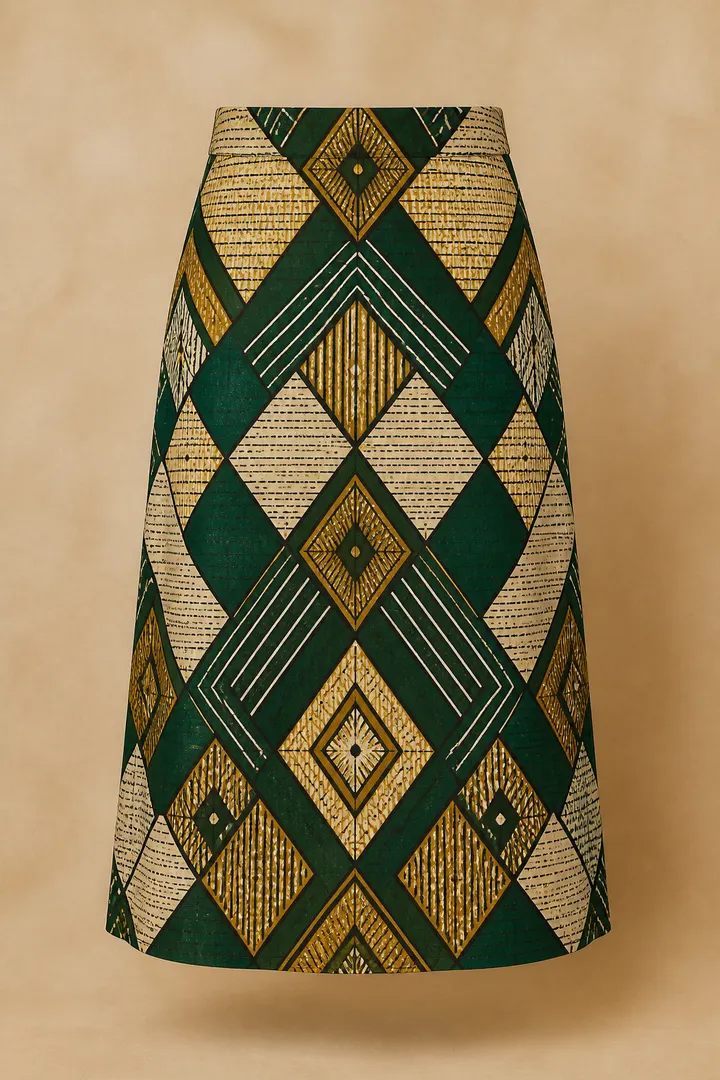
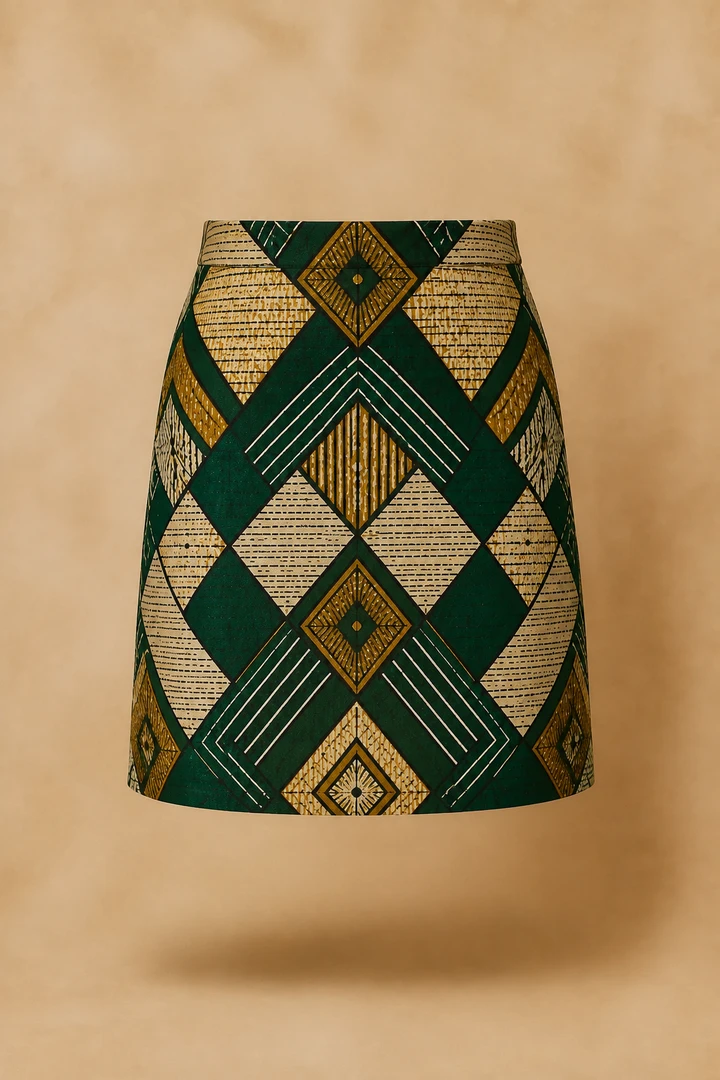
feat: simplify step one garment presentation

diff --git a/test_step1_step3_catalogue_loading_ui.tsx b/test_step1_step3_catalogue_loading_ui.tsx
@@ -72,16 +72,6 @@ const renderStep1 = (coverage: ReturnType<typeof resolveStep1CatalogueCoverage>)
       selectedGarmentTypes: coverage.selectedGarments as never,
       selectedDemographics: coverage.selectedDemographics as never,
       normalizedCustomDetailCatalog: catalog,
-      catalogueCoverageMessage:
-        (coverage.status === "no_match" ||
-          coverage.status === "empty_catalogue") &&
-        coverage.customerHeadline &&
-        coverage.customerDetail
-          ? {
-              headline: coverage.customerHeadline,
-              detail: coverage.customerDetail,
-            }
-          : null,
       onGarmentTypesChange: () => undefined,
       onDemographicsChange: () => undefined,
       onConstructionDefaultsChange: () => undefined,
@@ -171,7 +161,7 @@ const renderStep3 = async ({
   assert.equal(step3.continueDisabled, true);
 }
 
-// 2. loading=false + styles=[] => empty catalogue + Upload Your Own Design
+// 2. loading=false + styles=[] => Step 1 remains garment-only; Step 3 describes catalogue state
 {
   const coverage = resolveStep1CatalogueCoverage({
     garmentTypeSelection: selection(["shirt", "trouser"], ["male"]),
@@ -180,8 +170,8 @@ const renderStep3 = async ({
   });
   assert.equal(coverage.status, "empty_catalogue");
   const step1 = renderStep1(coverage);
-  assert.match(step1, /No catalogue designs are available right now/);
-  assert.match(step1, /Upload Your Own Design/);
+  assert.equal(step1.includes("No catalogue designs are available right now"), false);
+  assert.equal(step1.includes("Upload Your Own Design"), false);
   const step3 = await renderStep3({
     styles: [],
     garmentTypeSelection: selection(["shirt", "trouser"], ["male"]),
@@ -203,7 +193,7 @@ const renderStep3 = async ({
   assert.equal(step1.includes("No catalogue design matches"), false);
 }
 
-// 4. no_match => upload-later warning
+// 4. no_match => Step 1 remains garment-only; Step 3 shows all published styles
 {
   const coverage = resolveStep1CatalogueCoverage({
     garmentTypeSelection: selection(["shirt", "trouser"], ["male"]),
@@ -212,9 +202,9 @@ const renderStep3 = async ({
   });
   assert.equal(coverage.status, "no_match");
   const step1 = renderStep1(coverage);
-  assert.match(step1, /No direct catalogue composition match found/);
-  assert.match(step1, /browse and use every published design/i);
-  assert.match(step1, /upload your own design/i);
+  assert.equal(step1.includes("No direct catalogue composition match found"), false);
+  assert.equal(step1.includes("browse and use every published design"), false);
+  assert.equal(step1.includes("Upload Your Own Design"), false);
   assert.equal(step1.includes("No catalogue design matches this selection"), false);
   const step3 = await renderStep3({
     styles: [incompatibleStyle],
@@ -341,9 +331,9 @@ const renderStep3 = async ({
       "base:trouser:1": compatibleStyle.id,
     },
   });
-  assert.match(explicitV2.text, /2 of 2 garments have a design/);
-  assert.match(explicitV2.text, /Used for 2/);
-  assert.match(explicitV2.text, /Use This Design/);
+  assert.match(explicitV2.text, /2 of 2 garments assigned/);
+  assert.match(explicitV2.text, /Applied to Shirt, Trouser/);
+  assert.match(explicitV2.text, /Use Again/);
   assert.equal(explicitV2.continueDisabled, false);
   assert.equal(explicitV2.stageComplete, true);
   assert.equal(explicitV2.continueDocked, true);

diff --git a/test_garment_type_step.tsx b/test_garment_type_step.tsx
@@ -42,16 +42,11 @@ const renderStep = ({
   selectedDemographics = [],
   selectedFabricQuantity,
   normalizedCustomDetailCatalog = catalog,
-  catalogueCoverageMessage = null,
 }: {
   selectedGarmentTypes?: readonly FabricGarmentType[];
   selectedDemographics?: readonly CustomDetailDemographic[];
   selectedFabricQuantity?: number;
   normalizedCustomDetailCatalog?: readonly CustomDetailOption[];
-  catalogueCoverageMessage?: {
-    headline: string;
-    detail: string;
-  } | null;
 } = {}) =>
   renderToStaticMarkup(
     createElement(GarmentTypeStep, {
@@ -59,7 +54,6 @@ const renderStep = ({
       selectedDemographics,
       selectedFabricQuantity,
       normalizedCustomDetailCatalog,
-      catalogueCoverageMessage,
       onGarmentTypesChange: () => undefined,
       onDemographicsChange: () => undefined,
       onConstructionDefaultsChange: () => undefined,
@@ -370,20 +364,17 @@ assert.ok(
   ),
 );
 
-const coverageWarningMarkup = renderStep({
+const skirtOnlyMarkup = renderStep({
   selectedGarmentTypes: ["skirt"],
   selectedDemographics: ["female"],
-  catalogueCoverageMessage: {
-    headline: "No direct catalogue composition match found",
-    detail:
-      "You can still continue to Step 3 to browse and use every published design. Reference-composition differences are advisory and will not block selection, or you can Upload Your Own Design.",
-  },
 });
-assert.ok(
-  coverageWarningMarkup.includes("No direct catalogue composition match found"),
+assert.equal(
+  skirtOnlyMarkup.includes("No direct catalogue composition match found"),
+  false,
+  "Step 1 must focus on physical garment selection, without catalogue-composition messaging",
 );
-assert.ok(coverageWarningMarkup.includes("browse and use every published design"));
-assert.ok(coverageWarningMarkup.includes("Upload Your Own Design"));
+assert.ok(skirtOnlyMarkup.includes("Standard Skirt"));
+assert.ok(skirtOnlyMarkup.includes("Uses 1/2 fabric capacity unit."));
 
 const allEightStep1Markup = renderStep({
   selectedGarmentTypes: [...STEP_1_SELECTABLE_GARMENT_TYPES],

diff --git a/src/components/DesignStudioView.tsx b/src/components/DesignStudioView.tsx
@@ -49,7 +49,6 @@ import { GarmentTypeStep } from "./GarmentTypeStep";
 import { DormantFutureFabricStep } from "./DormantFutureFabricStep";
 import { DormantFutureDesignStyleStep } from "./DormantFutureDesignStyleStep";
 import { DesignStudioJourneyStepper, DESIGN_STUDIO_STEPS } from "./DesignStudioJourneyStepper";
-import { resolveStep1CatalogueCoverage } from "../utils/step1CatalogueCoverage";
 import {
   canBeginFutureDesignDraftHydration,
   preserveUnresolvedCatalogueStyleSelection,
@@ -842,11 +841,6 @@ export default function DesignStudioView({
           garmentTypeSelection,
         })
       : preserveUnresolvedCatalogueStyleSelection(futureSelectedStyleId);
-  const step1CatalogueCoverage = resolveStep1CatalogueCoverage({
-    garmentTypeSelection,
-    styles,
-    stylesLoadState,
-  });
   const activeFutureDesignSource =
     futureDesignSource || createCatalogDesignSource(futureSelectedStyleId || "");
   const activeUploadedDesignSource =
@@ -6206,18 +6200,6 @@ export default function DesignStudioView({
               handleDormantConstructionDefaultsChange
             }
             statusMessage={garmentTypeBlockerMessage}
-            catalogueCoverageMessage={
-              (step1CatalogueCoverage.status === "no_match" ||
-                step1CatalogueCoverage.status === "empty_catalogue" ||
-                step1CatalogueCoverage.status === "catalogue_unavailable") &&
-              step1CatalogueCoverage.customerHeadline &&
-              step1CatalogueCoverage.customerDetail
-                ? {
-                    headline: step1CatalogueCoverage.customerHeadline,
-                    detail: step1CatalogueCoverage.customerDetail,
-                  }
-                : null
-            }
             idPrefix="future-garment-type-step"
             orderSummary={
               embedPersistentLiveOrderSummary ? liveOrderSummaryCard : null

diff --git a/src/components/GarmentTypeStep.tsx b/src/components/GarmentTypeStep.tsx
@@ -156,10 +156,6 @@ export interface GarmentTypeStepProps {
     resolutions: GarmentConstructionPricingResolution[],
   ) => void;
   statusMessage?: string | null;
-  catalogueCoverageMessage?: {
-    headline: string;
-    detail: string;
-  } | null;
   orderSummary?: ReactNode;
   idPrefix?: string;
 }
@@ -269,7 +265,6 @@ export const GarmentTypeStep = ({
   onDemographicsChange,
   onConstructionDefaultsChange,
   statusMessage = null,
-  catalogueCoverageMessage = null,
   orderSummary = null,
   idPrefix = "garment-type-step",
 }: GarmentTypeStepProps) => {
@@ -353,18 +348,6 @@ export const GarmentTypeStep = ({
             Step 3 will show every published Design Style, and you can map any reference to the exact garments you choose.
           </p>
         </div>
-
-        {catalogueCoverageMessage && (
-          <div
-            role="status"
-            className="mt-5 rounded-2xl border border-amber-300 bg-amber-50 p-4 text-amber-950"
-          >
-            <p className="font-bold">{catalogueCoverageMessage.headline}</p>
-            <p className="mt-1 text-xs leading-relaxed text-amber-950/80">
-              {catalogueCoverageMessage.detail}
-            </p>
-          </div>
-        )}
 
         <fieldset className="mt-6 min-w-0 lg:grid lg:grid-cols-[minmax(0,1fr)_17rem] lg:items-start lg:gap-x-6 lg:gap-y-1">
           <legend className="font-serif text-lg font-bold text-heritage-green lg:col-start-1 lg:row-start-1">

diff --git a/test_step1_garment_reference_images.tsx b/test_step1_garment_reference_images.tsx
@@ -41,6 +41,10 @@ assert.equal(
   false,
   "Agbada must not receive a customer Step 1 reference-image mapping",
 );
+assert.deepEqual(getStep1GarmentReferenceImage("skirt"), {
+  filename: "ankara-standard-skirt.webp",
+  src: "/images/garments/ankara-standard-skirt.webp",
+});
 
 for (const garmentType of CUSTOMER_SELECTABLE_GARMENT_TYPES) {
   assert.ok(
